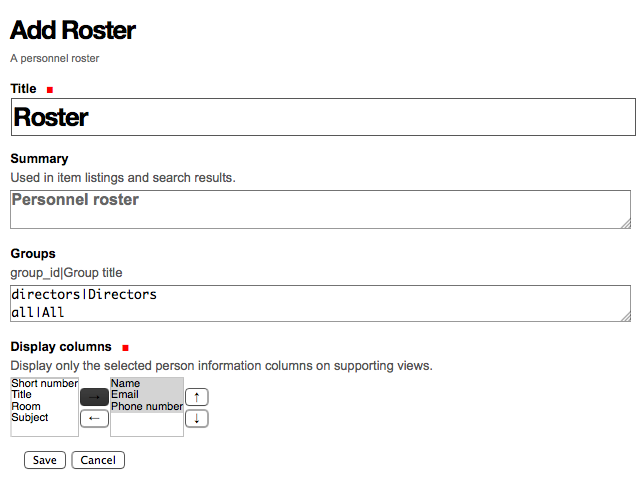
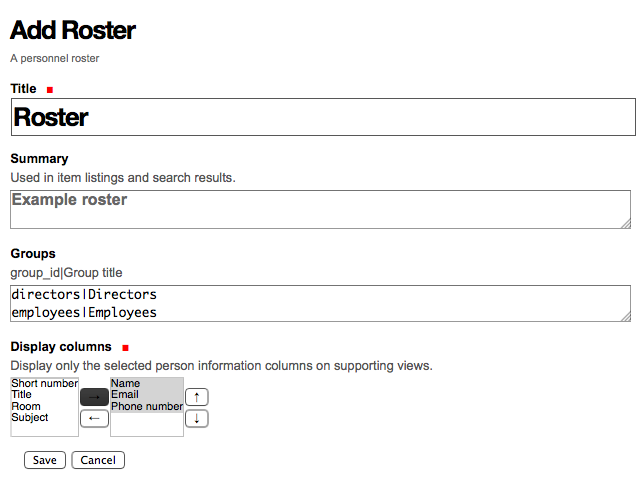
Add screenshots

Changed region(s): [[0.0297, 0.625, 0.2379, 0.6875], [0.0297, 0.4062, 0.2379, 0.4375]]

diff --git a/docs/_static/custom.css b/docs/_static/custom.css
@@ -7,4 +7,5 @@ h1, h2, h3, h4, h5, h6, footer {
   box-shadow: 0 0 5px #888;
   overflow: hidden;
   background: white;
+  margin-bottom: 2em;
 }

diff --git a/src/collective/roster/behaviors/interfaces.py b/src/collective/roster/behaviors/interfaces.py
@@ -153,6 +153,7 @@ alsoProvides(IGroupsProvider, IFormFieldProvider)
 @discriminators(field=IGroupsProvider['groups'])
 class GroupNameValidator(SimpleFieldValidator):
     def validate(self, value, force=False):
+        value = value or []
         super(SimpleFieldValidator, self).validate(value, force)
 
         normalizer = getUtility(IIDNormalizer)

diff --git a/docs/index.rst b/docs/index.rst
@@ -1,22 +1,47 @@
-collective.roster
-=================
+Personnel Roster
+================
+
+**collective.roster** aka Personnel Roster provides highly customizable
+personnel listing, which can be extended easily with custom file system
+developed add-ons.
 
 .. include:: _robot.rst
 
+.. figure:: roster-product-activated.png
+.. code:: robotframework
 
-Add a new roster
-================
+    Show product as activated
+        Go to  ${PLONE_URL}/prefs_install_products_form
+        Page should contain element  id=collective.roster
+
+        Assign id to element
+        ...  xpath=//*[@id='collective.roster']/parent::*
+        ...  addons-collective-roster
+        Assign id to element
+        ...  xpath=//*[@id='collective.roster']/ancestor::form
+        ...  addons-enabled
+
+        Highlight  addons-collective-roster
+
+        Capture and crop page screenshot
+        ...  roster-product-activated.png
+        ...  id=addons-enabled
+
+
+Adding a new roster
+===================
 
 .. figure:: roster-add-form.png
 .. code:: robotframework
 
-    Creating a roster
+    Show adding a new roster
         Go to  ${PLONE_URL}/++add++collective.roster.roster
+        Page should contain  Add Roster
 
         Input text  form.widgets.IBasic.title  Roster
-        Input text  form.widgets.IBasic.description  Personnel roster
+        Input text  form.widgets.IBasic.description  Example roster
         Input text  form.widgets.IGroupsProvider.groups
-        ...         directors|Directors\nall|All
+        ...         directors|Directors\nemployees|Employees
         Select from list  form.widgets.columns_display.from
         ...               collective.roster.personnellisting.name
         Click button  from2toButton
@@ -27,4 +52,183 @@ Add a new roster
         ...               collective.roster.personnellisting.phone_number
         Click button  from2toButton
 
-        Capture and crop page screenshot  roster-add-form.png  css=#content
+        Capture and crop page screenshot
+        ...  roster-add-form.png  css=#content
+
+        Click button  Save
+        Page should contain  Item created
+
+
+Adding a new person
+===================
+
+.. figure:: person-add-form.png
+.. code:: robotframework
+
+    Show adding a new person
+        Go to  ${PLONE_URL}/roster/++add++collective.roster.person
+        Page should contain  Add Person
+
+        Input text  form.widgets.first_name  Jane
+        Input text  form.widgets.last_name  Doe
+        Input text  form.widgets.position  CTO
+        Input text  form.widgets.description  An example person
+
+        Select check box  css=#form-widgets-IGroups-groups-0
+
+        Capture and crop page screenshot
+        ...  person-add-form.png  css=#content
+
+        Click button  Save
+        Page should contain  Item created
+
+        Go to  ${PLONE_URL}/roster/++add++collective.roster.person
+        Page should contain  Add Person
+
+        Input text  form.widgets.first_name  John
+        Input text  form.widgets.last_name  Johnson
+        Input text  form.widgets.position  Secretary
+
+        Select check box  css=#form-widgets-IGroups-groups-1
+
+        Click button  Save
+        Page should contain  Item created
+
+
+Alphabetical listing
+====================
+
+.. figure:: roster-alpha-view.png
+.. code:: robotframework
+
+    Show alpha view
+        Go to  ${PLONE_URL}/roster/@@alpha_view
+        Page should not contain  Directors
+        Page should not contain  Employees
+        Page should contain  Doe Jane
+        Page should contain  Johnson John
+        Page should not contain  Doe Jane, CTO
+        Page should not contain  Johnson John, Secretary
+
+        Capture and crop page screenshot
+        ...  roster-alpha-view.png  css=#content
+
+
+Groups listing
+==============
+
+.. figure:: roster-groups-view.png
+.. code:: robotframework
+
+    Show groups view
+        Go to  ${PLONE_URL}/roster/@@groups_view
+        Page should contain  Directors
+        Page should contain  Employees
+        Page should contain  Doe Jane
+        Page should contain  Johnson John
+        Page should not contain  Doe Jane, CTO
+        Page should not contain  Johnson John, Secretary
+
+        Capture and crop page screenshot
+        ...  roster-groups-view.png  css=#content
+
+
+Gallery listing
+===============
+
+.. figure:: roster-gallery-view.png
+.. code:: robotframework
+
+    Show gallery view
+        Go to  ${PLONE_URL}/roster/@@gallery_view
+        Page should contain  Directors
+        Page should contain  Employees
+        Page should contain  Doe Jane, CTO
+        Page should contain  Johnson John, Secretary
+
+        Capture and crop page screenshot
+        ...  roster-gallery-view.png  css=#content
+
+
+Person view
+===========
+
+.. figure:: person-view.png
+.. code:: robotframework
+
+    Show person view
+        Go to  ${PLONE_URL}/roster/doe-jane
+        Page should contain  An example person
+
+        Capture and crop page screenshot
+        ...  person-view.png  css=#content
+
+
+Person viewlets manager
+=======================
+
+.. figure:: person-viewlets-manager.png
+.. code:: robotframework
+
+    Show person viewlets manager
+        Go to  ${PLONE_URL}/roster/doe-jane/@@manage-viewlets
+        Page should contain  ViewletManager: collective.roster.personviewlets
+
+        Capture and crop page screenshot
+        ...  person-viewlets-manager.png  css=#content
+
+
+Available behaviors
+===================
+
+.. figure:: behaviors-manager.png
+.. code:: robotframework
+
+    Show available behaviors
+        Go to  ${PLONE_URL}/dexterity-types/collective.roster.person/@@behaviors
+        Page should contain  Behaviors
+
+        Assign id to element
+        ...  xpath=//*[@id='form-widgets-collective-roster-behaviors-interfaces-IContactInfo']/parent::*/parent::*
+        ...  behaviors-contact-info
+        Page should contain element  behaviors-contact-info
+        Highlight  behaviors-contact-info
+
+        Assign id to element
+        ...  xpath=//*[@id='form-widgets-collective-roster-behaviors-interfaces-IAutoRoles']/parent::*/parent::*
+        ...  behaviors-auto-roles
+        Page should contain element  behaviors-auto-roles
+        Highlight  behaviors-auto-roles
+
+        Assign id to element
+        ...  xpath=//*[@id='form-widgets-collective-roster-behaviors-interfaces-IGroupsProvider']/parent::*/parent::*
+        ...  behaviors-groups-provider
+        Page should contain element  behaviors-groups-provider
+        Highlight  behaviors-groups-provider
+
+        Assign id to element
+        ...  xpath=//*[@id='form-widgets-collective-roster-behaviors-interfaces-IGroups']/parent::*/parent::*
+        ...  behaviors-groups
+        Page should contain element  behaviors-groups
+        Highlight  behaviors-groups
+
+        Assign id to element
+        ...  xpath=//*[@id='form-widgets-collective-roster-behaviors-interfaces-IGroupsAsSubjects']/parent::*/parent::*
+        ...  behaviors-groups-as-subjects
+        Page should contain element  behaviors-groups-as-subjects
+        Highlight  behaviors-groups-as-subjects
+
+        Assign id to element
+        ...  xpath=//*[@id='form-widgets-collective-roster-behaviors-interfaces-IOfficeInfo']/parent::*/parent::*
+        ...  behaviors-office-info
+        Page should contain element  behaviors-office-info
+        Highlight  behaviors-office-info
+
+        Assign id to element
+        ...  xpath=//*[@id='form-widgets-collective-roster-behaviors-interfaces-ISubjectInfo']/parent::*/parent::*
+        ...  behaviors-subject-info
+        Page should contain element  behaviors-subject-info
+        Highlight  behaviors-subject-info
+
+        Capture and crop page screenshot
+        ...  behaviors-manager.png  css=#content

diff --git a/docs/_robot.rst b/docs/_robot.rst
@@ -9,7 +9,7 @@
    Library  OperatingSystem
 
    Suite Setup  Run keywords  Suite Setup  Test Setup
-   Suite Teardown  Run keywords  Test teardown  Suite Teardown
+   Suite Teardown  Run keywords  Test Teardown  Suite Teardown
 
    *** Variables ***
 
@@ -19,16 +19,16 @@
    *** Keywords ***
 
    Suite Setup
-       Run keyword if  not sys.argv[0].startswith('bin/robot')
+       Run keyword if  'bin/robot' not in sys.argv[0]
        ...             Setup Plone site  ${FIXTURE}
-       Run keyword if  sys.argv[0].startswith('bin/robot')
+       Run keyword if  'bin/robot' in sys.argv[0]
        ...             Open test browser
        Run keyword and ignore error  Set window size  @{DIMENSIONS}
 
    Test Setup
        Import library  Remote  ${PLONE_URL}/RobotRemote
 
-       Run keyword if  sys.argv[0].startswith('bin/robot')
+       Run keyword if  'bin/robot' in sys.argv[0]
        ...             Remote ZODB SetUp  ${FIXTURE}
 
        ${language} =  Get environment variable  LANGUAGE  'en'
@@ -43,13 +43,13 @@
        Set autologin username  ${user_id}
 
    Test Teardown
-       Run keyword if  sys.argv[0].startswith('bin/robot')
+       Run keyword if  'bin/robot' in sys.argv[0]
        ...             Remote ZODB TearDown  ${FIXTURE}
 
    Suite Teardown
-       Run keyword if  not sys.argv[0].startswith('bin/robot')
+       Run keyword if  'bin/robot' not in sys.argv[0]
        ...             Teardown Plone Site
-       Run keyword if  sys.argv[0].startswith('bin/robot')
+       Run keyword if  'bin/robot' in sys.argv[0]
        ...             Close all browsers
 
    *** Test Cases ***
